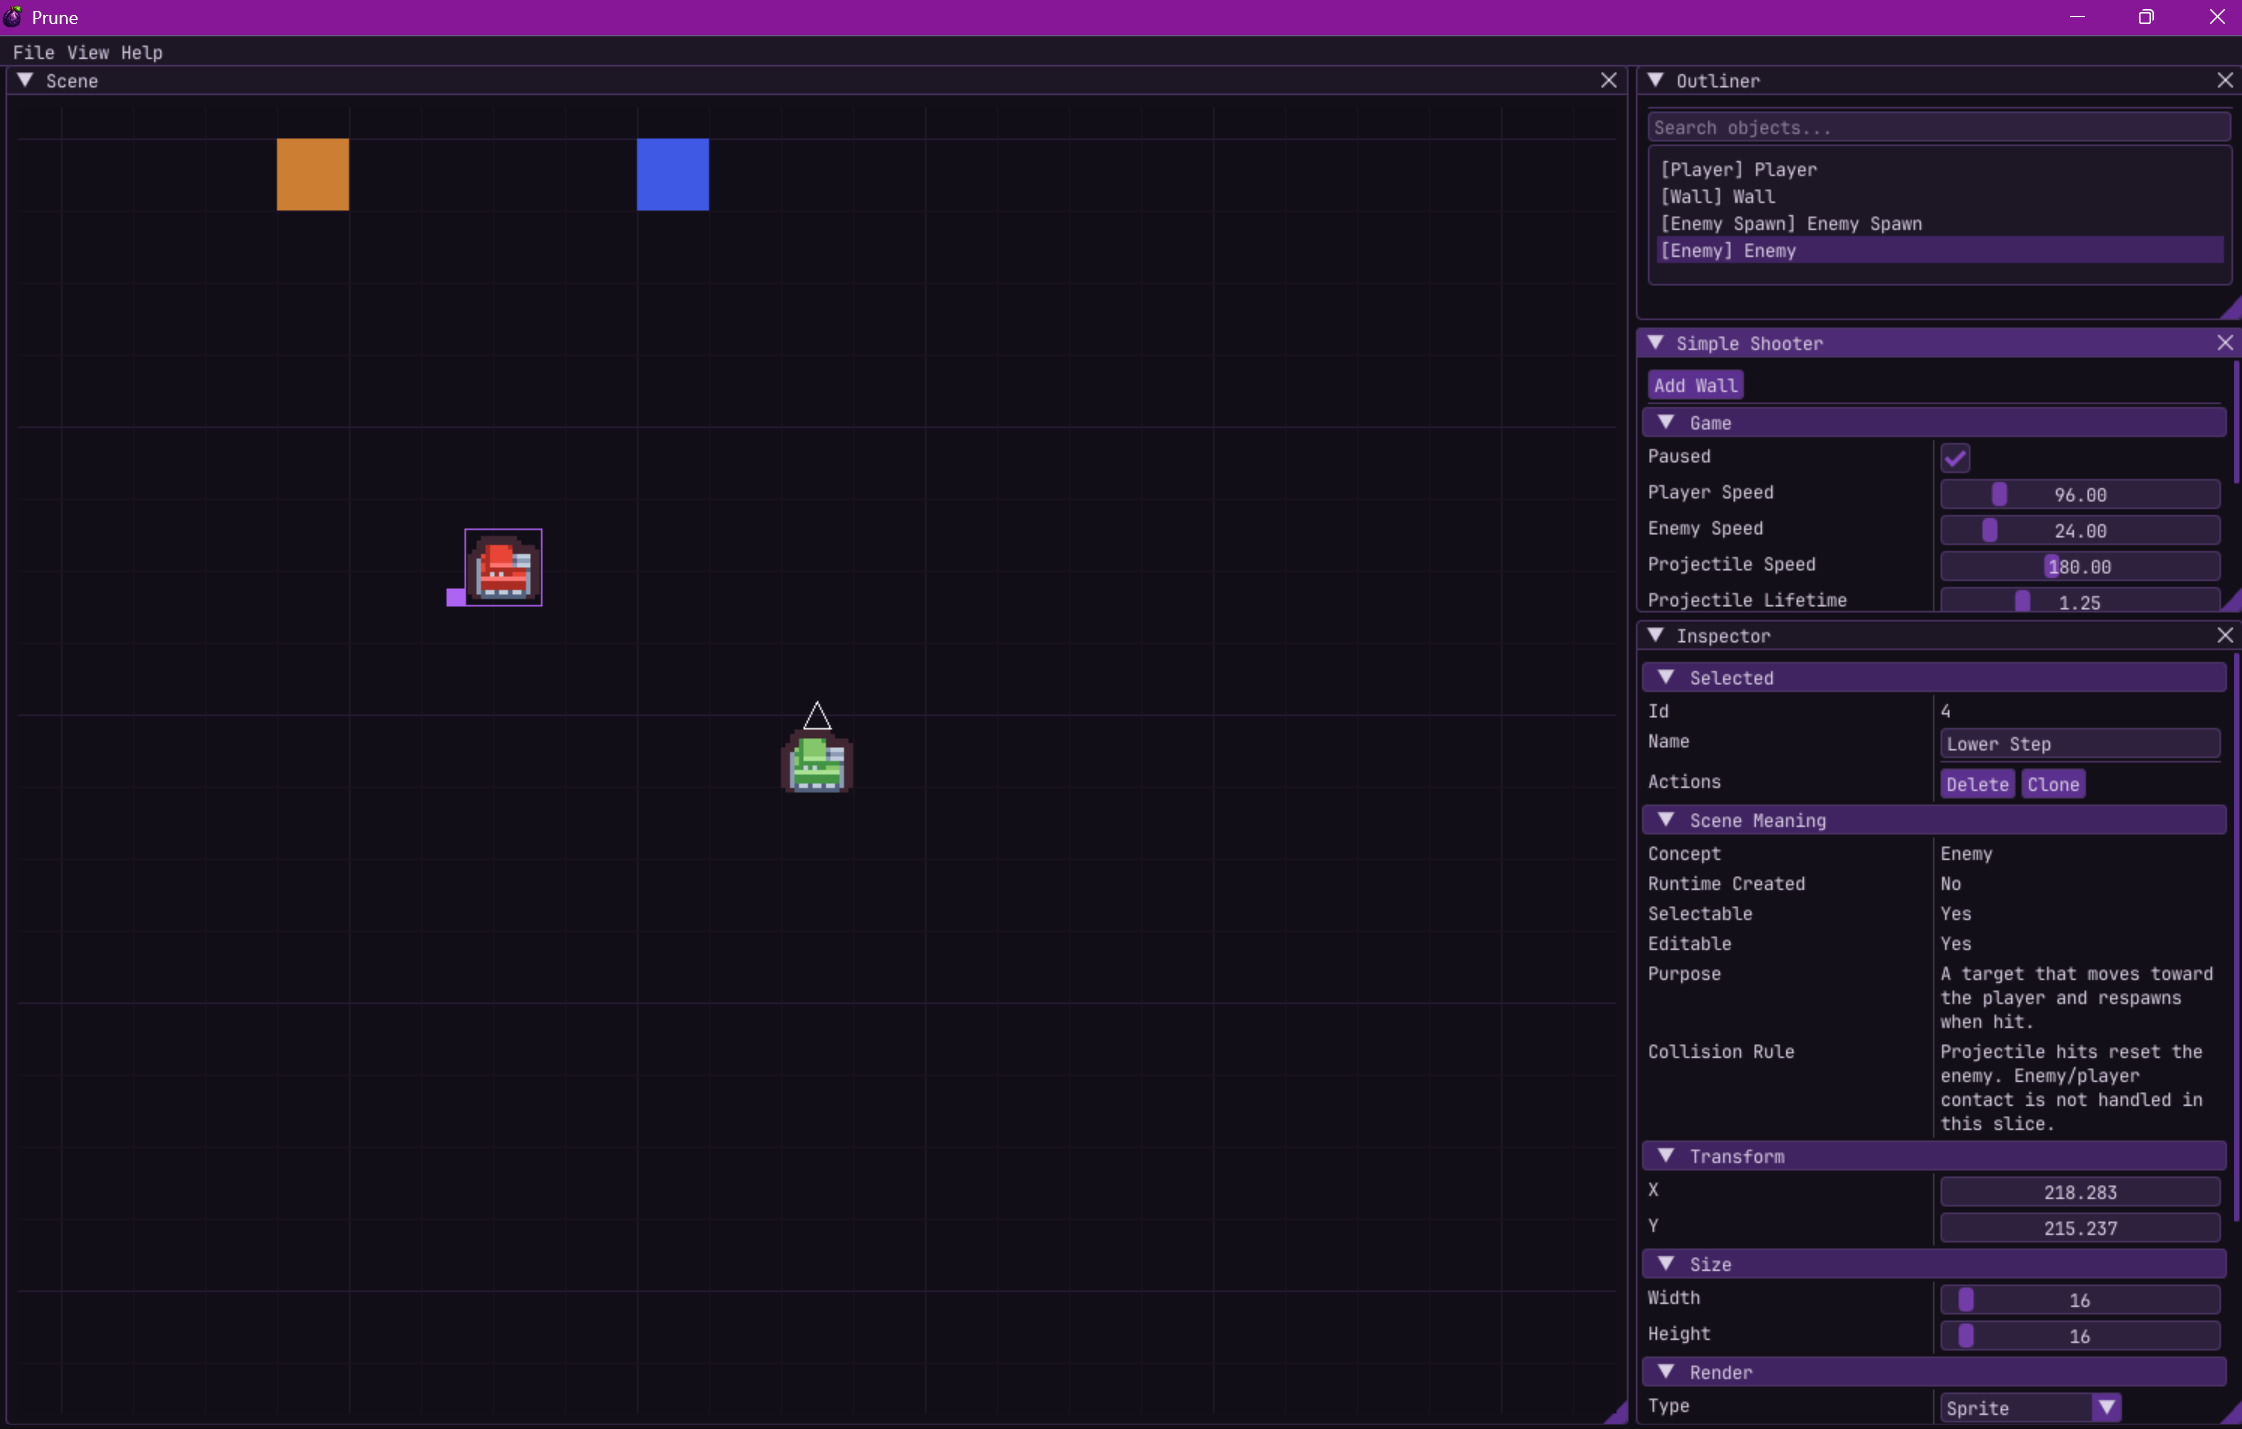
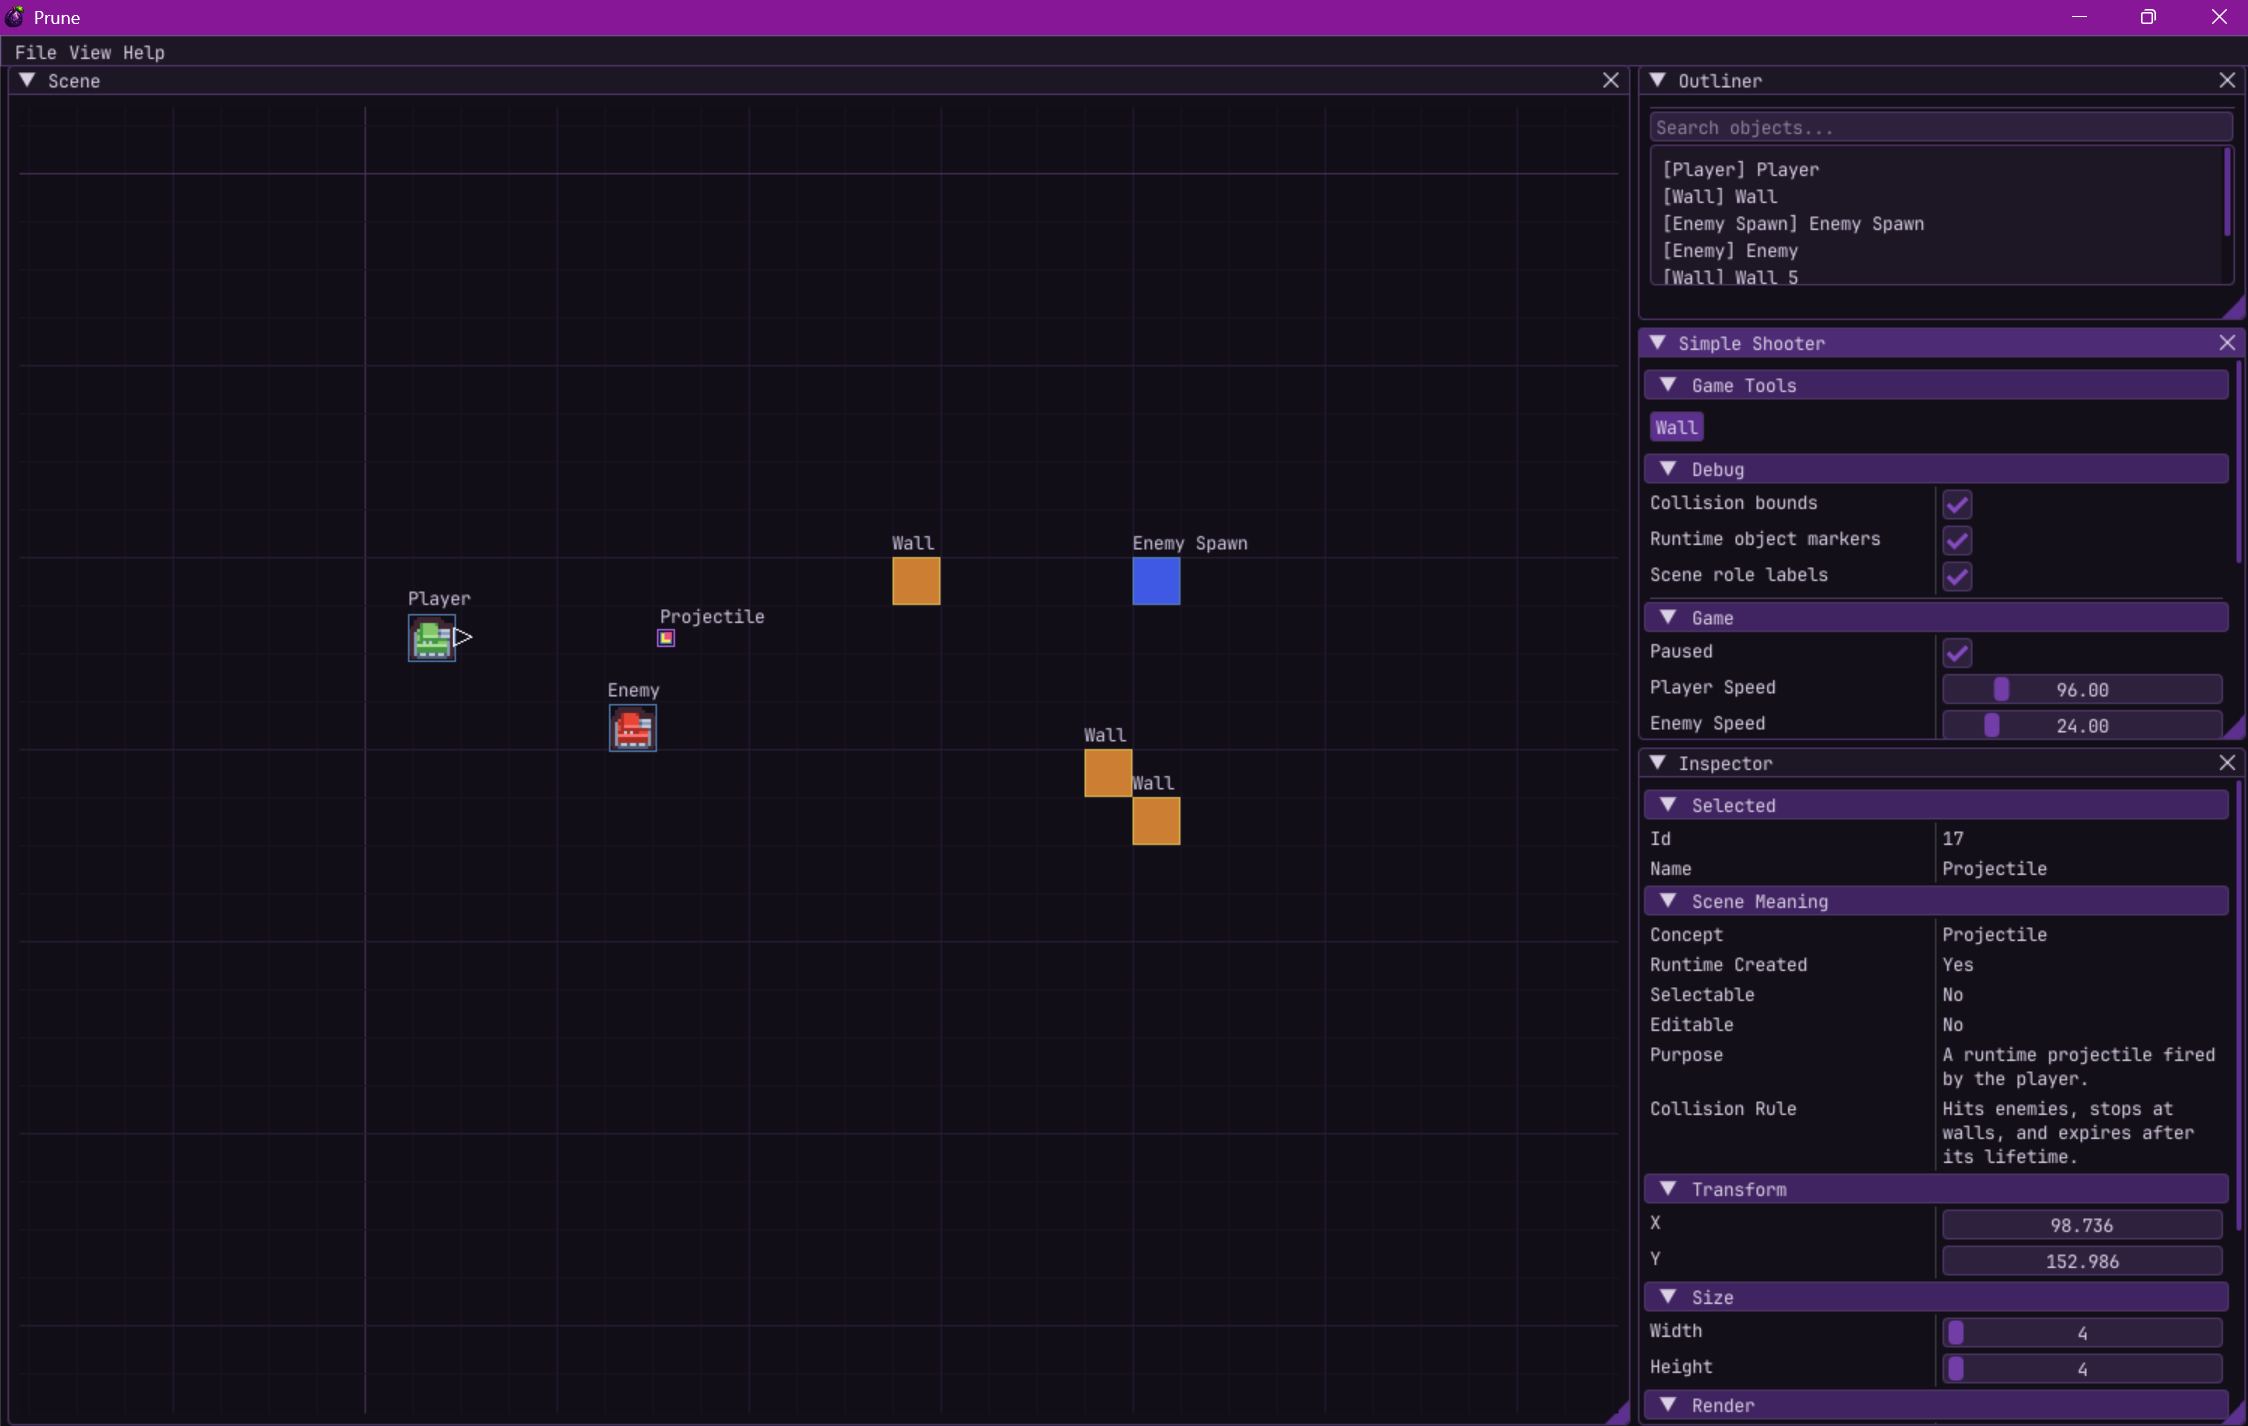
Updated screen shots and notes

diff --git a/NOTES.md b/NOTES.md
@@ -327,10 +327,10 @@ Keep it small.
 
 ### Second target: debug overlays
 
-- [ ] Toggle collision bounds.
-- [ ] Toggle runtime object markers.
-- [ ] Toggle scene role labels above objects.
-- [ ] Make overlays generic but role labels scene-specific.
+- [x] Toggle collision bounds.
+- [x] Toggle runtime object markers.
+- [x] Toggle scene role labels above objects.
+- [x] Make overlays generic but role labels scene-specific.
 
 ### Third target: scene-specific creation actions
 
@@ -338,11 +338,11 @@ Move beyond raw “Add Wall” / “Add Platform” buttons.
 
 Suggested direction:
 
-- shared creation panel shell
-- scene supplies creation actions
-- action creates an object using scene factory
-- placement uses shared view-centre helper
-- created object is selected
+- [x] shared creation panel shell
+- [x] scene supplies creation actions
+- [x] action creates an object using scene factory
+- [x] placement uses shared view-centre helper
+- [x] created object is selected
 
 ### Fourth target: better sprite picker
 